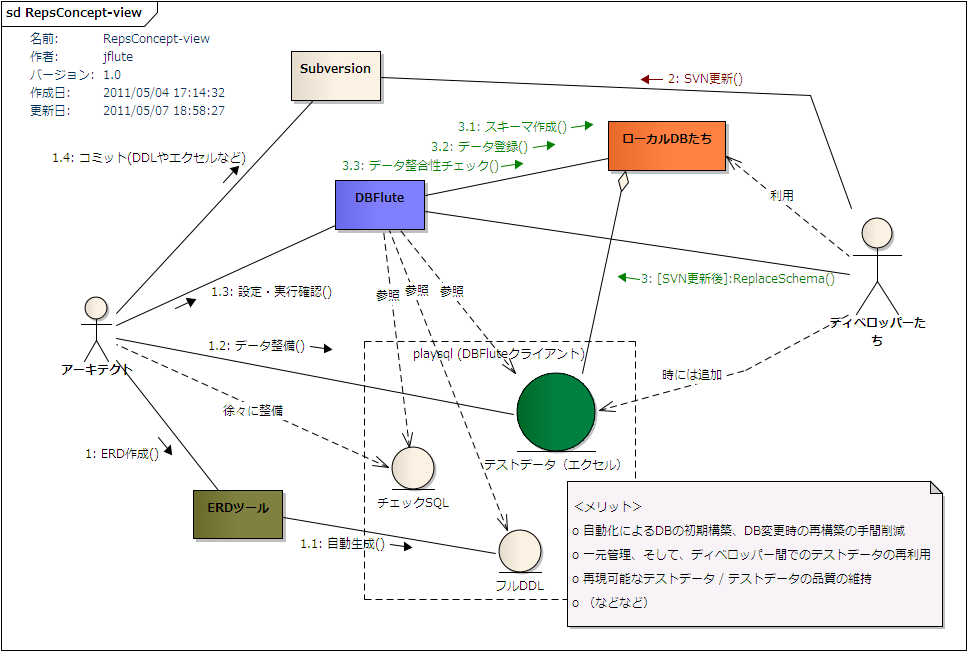
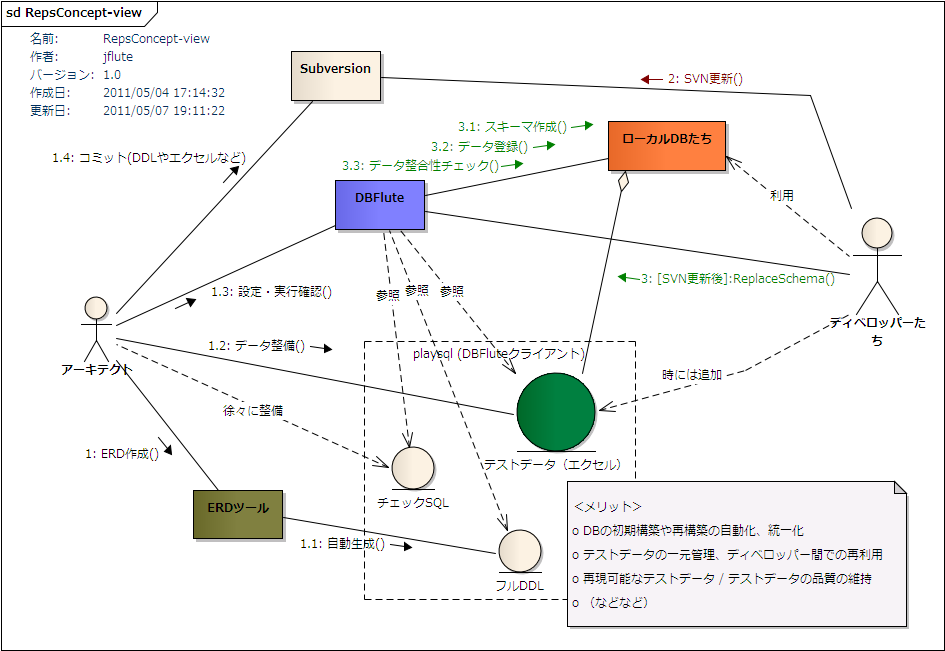
Prepare the hands-on tutorial project
git-svn-id: https://www.seasar.org/svn/dbflute/trunk/www@23414 b65849cc-091c-4ecd-8ca6-0d794ba8cb45

diff --git a/ja/manual/function/generator/task/replaceschema/index.html b/ja/manual/function/generator/task/replaceschema/index.html
@@ -81,7 +81,7 @@
 	</p>
 	<h3 id="merit">利用するメリット</h3>
 	<dl class="textlist">
-		<dt>自動化によるDBの初期構築、DB変更時の再構築の手間削減</dt>
+		<dt>DBの初期構築や再構築の自動化、統一化</dt>
 		<dd>
 			DBFlute(ReplaceSchema)を使っているプロジェクトであれば、どこにいっても ReplaceSchema
 			を実行することでテーブルが作成され、テストデータも一気に登録。
@@ -92,7 +92,7 @@
 			独自の仕組みになりがちなDB構築処理、これを統一化することで新加入のディベロッパーの開発環境構築もスムーズに。.NETプロジェクトでも DBFlute.NET
 			を利用していれば、Javaプロジェクトと.NETプロジェクトでメンバーが行き来しても迷うことはないでしょう。
 		</dd>
-		<dt>一元管理、そして、ディベロッパー間でのテストデータの再利用</dt>
+		<dt>テストデータの一元管理、ディベロッパー間での再利用</dt>
 		<dd>
 			DB変更の影響はプログラムではなく、テストデータも大きく影響します。
 			分散されて定義が冗長していると、テストデータの修正だけで大きなコストとなってしまいます。
